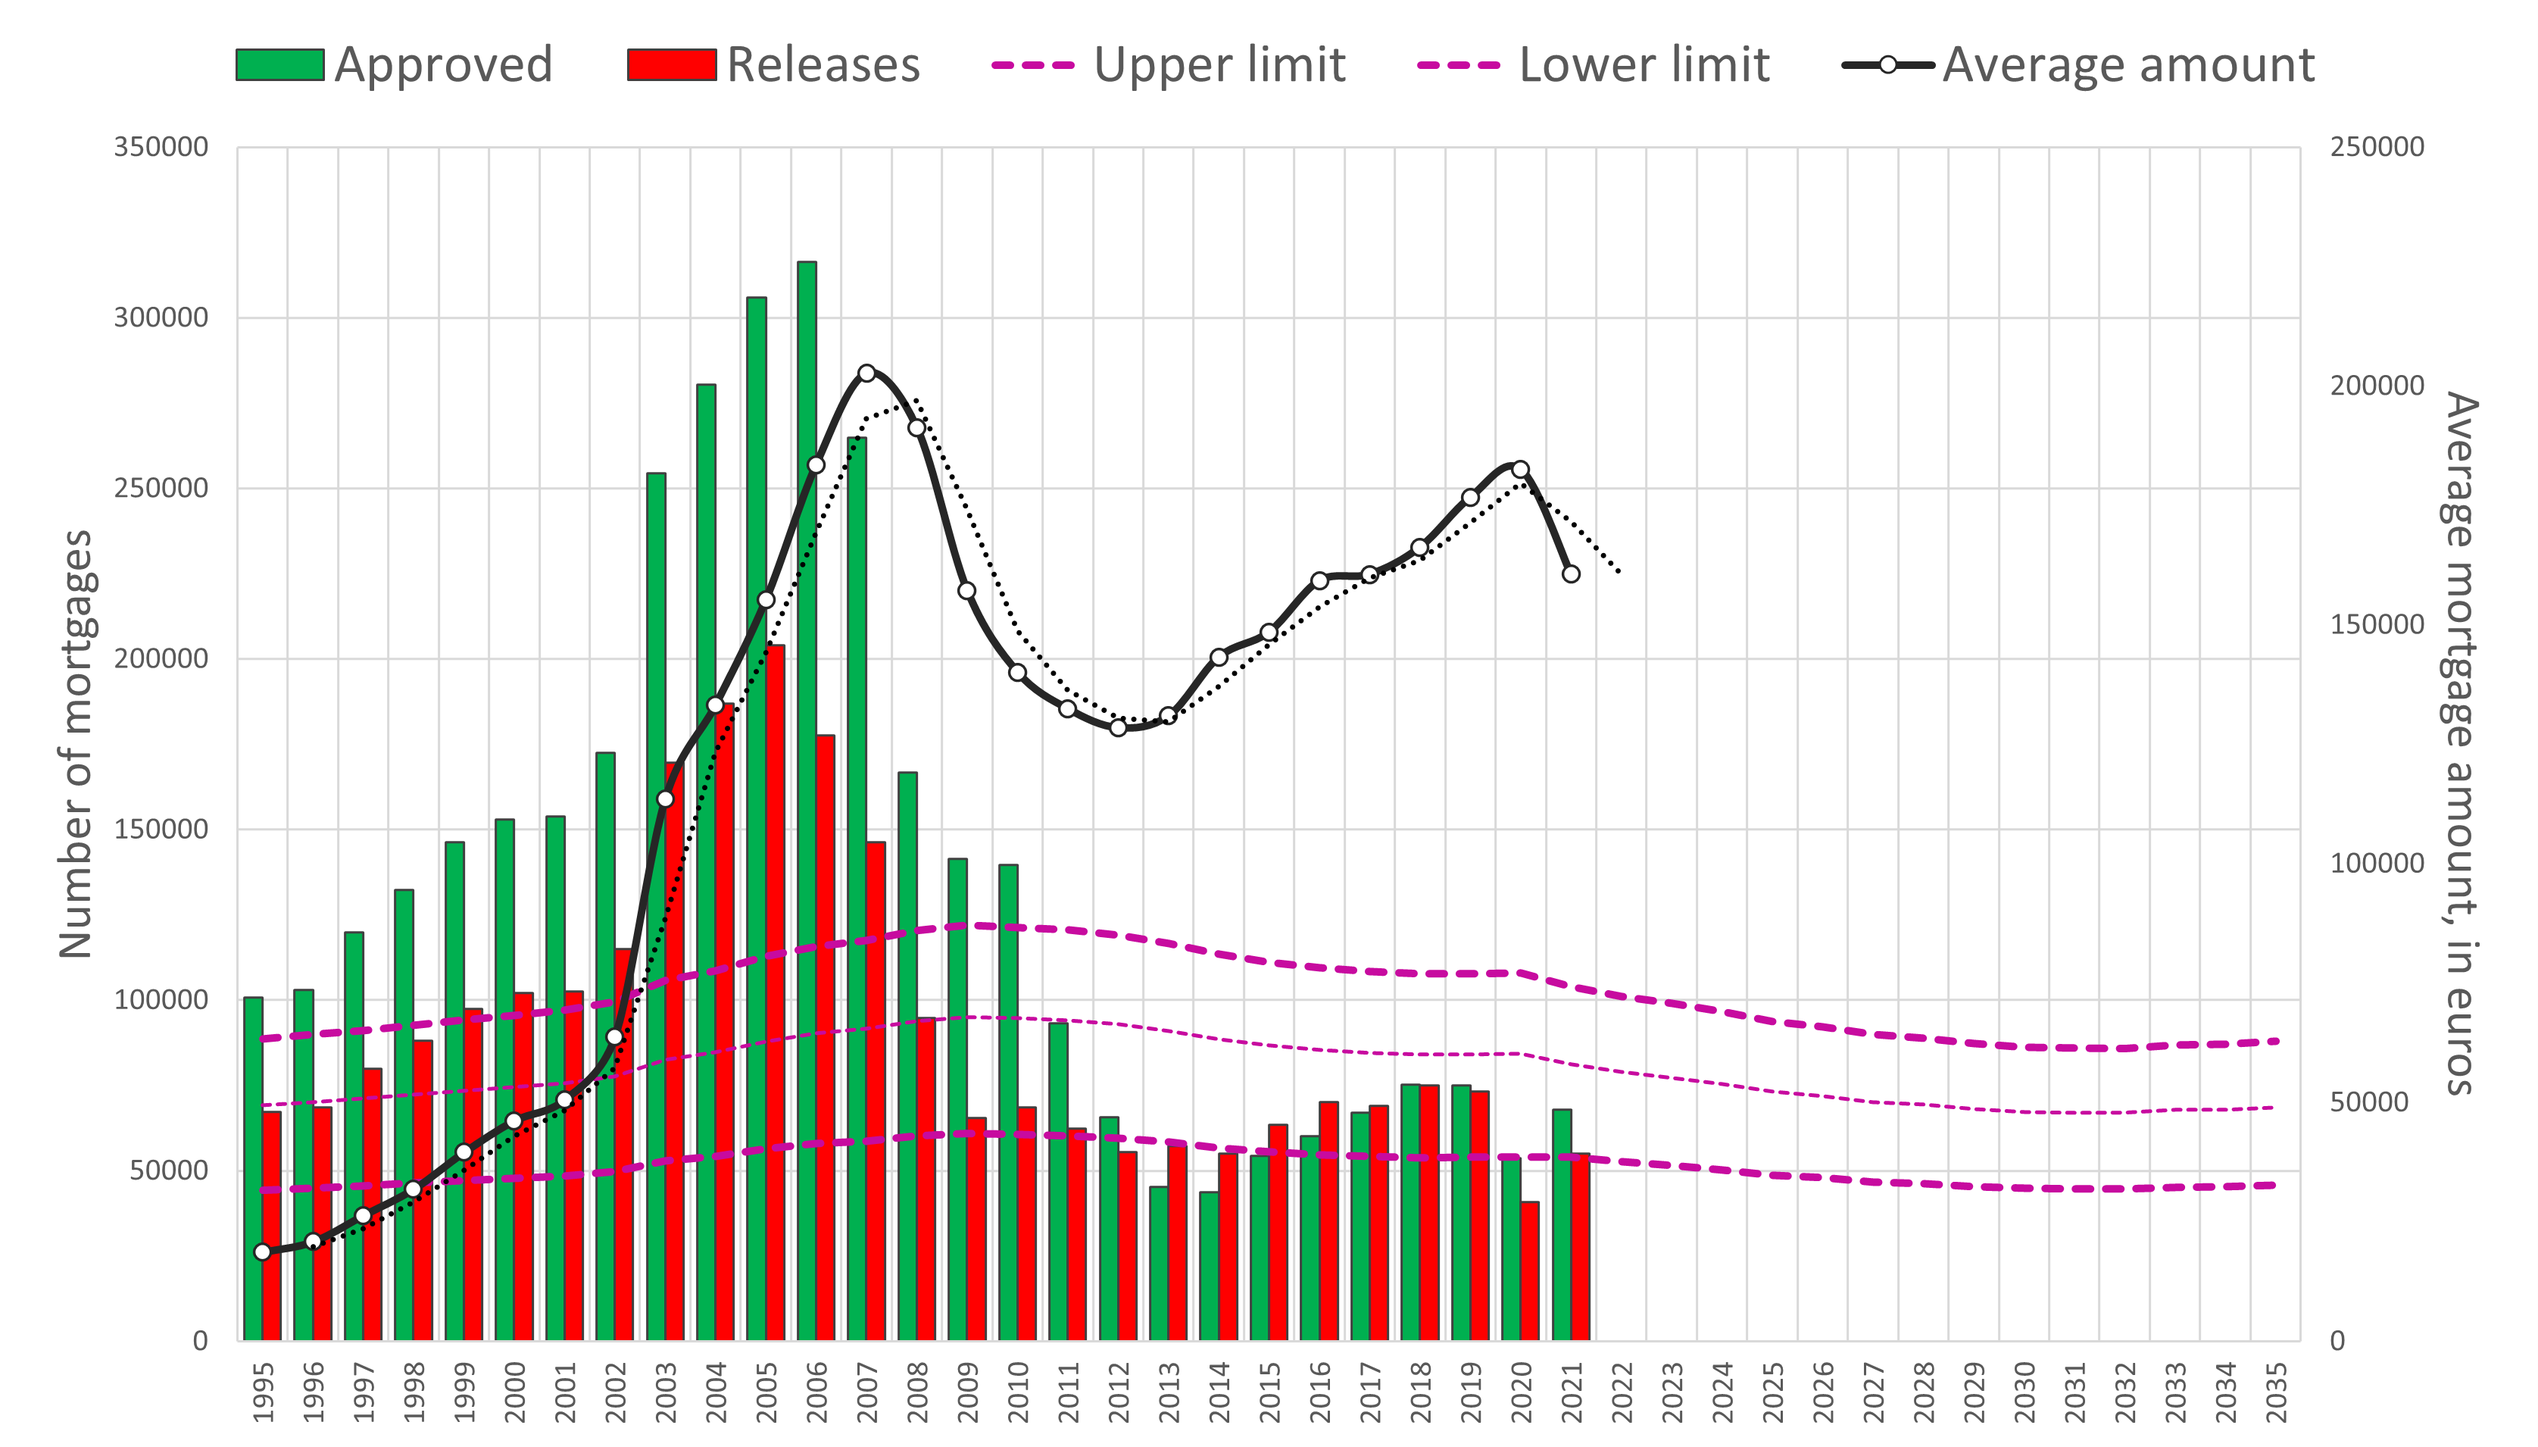
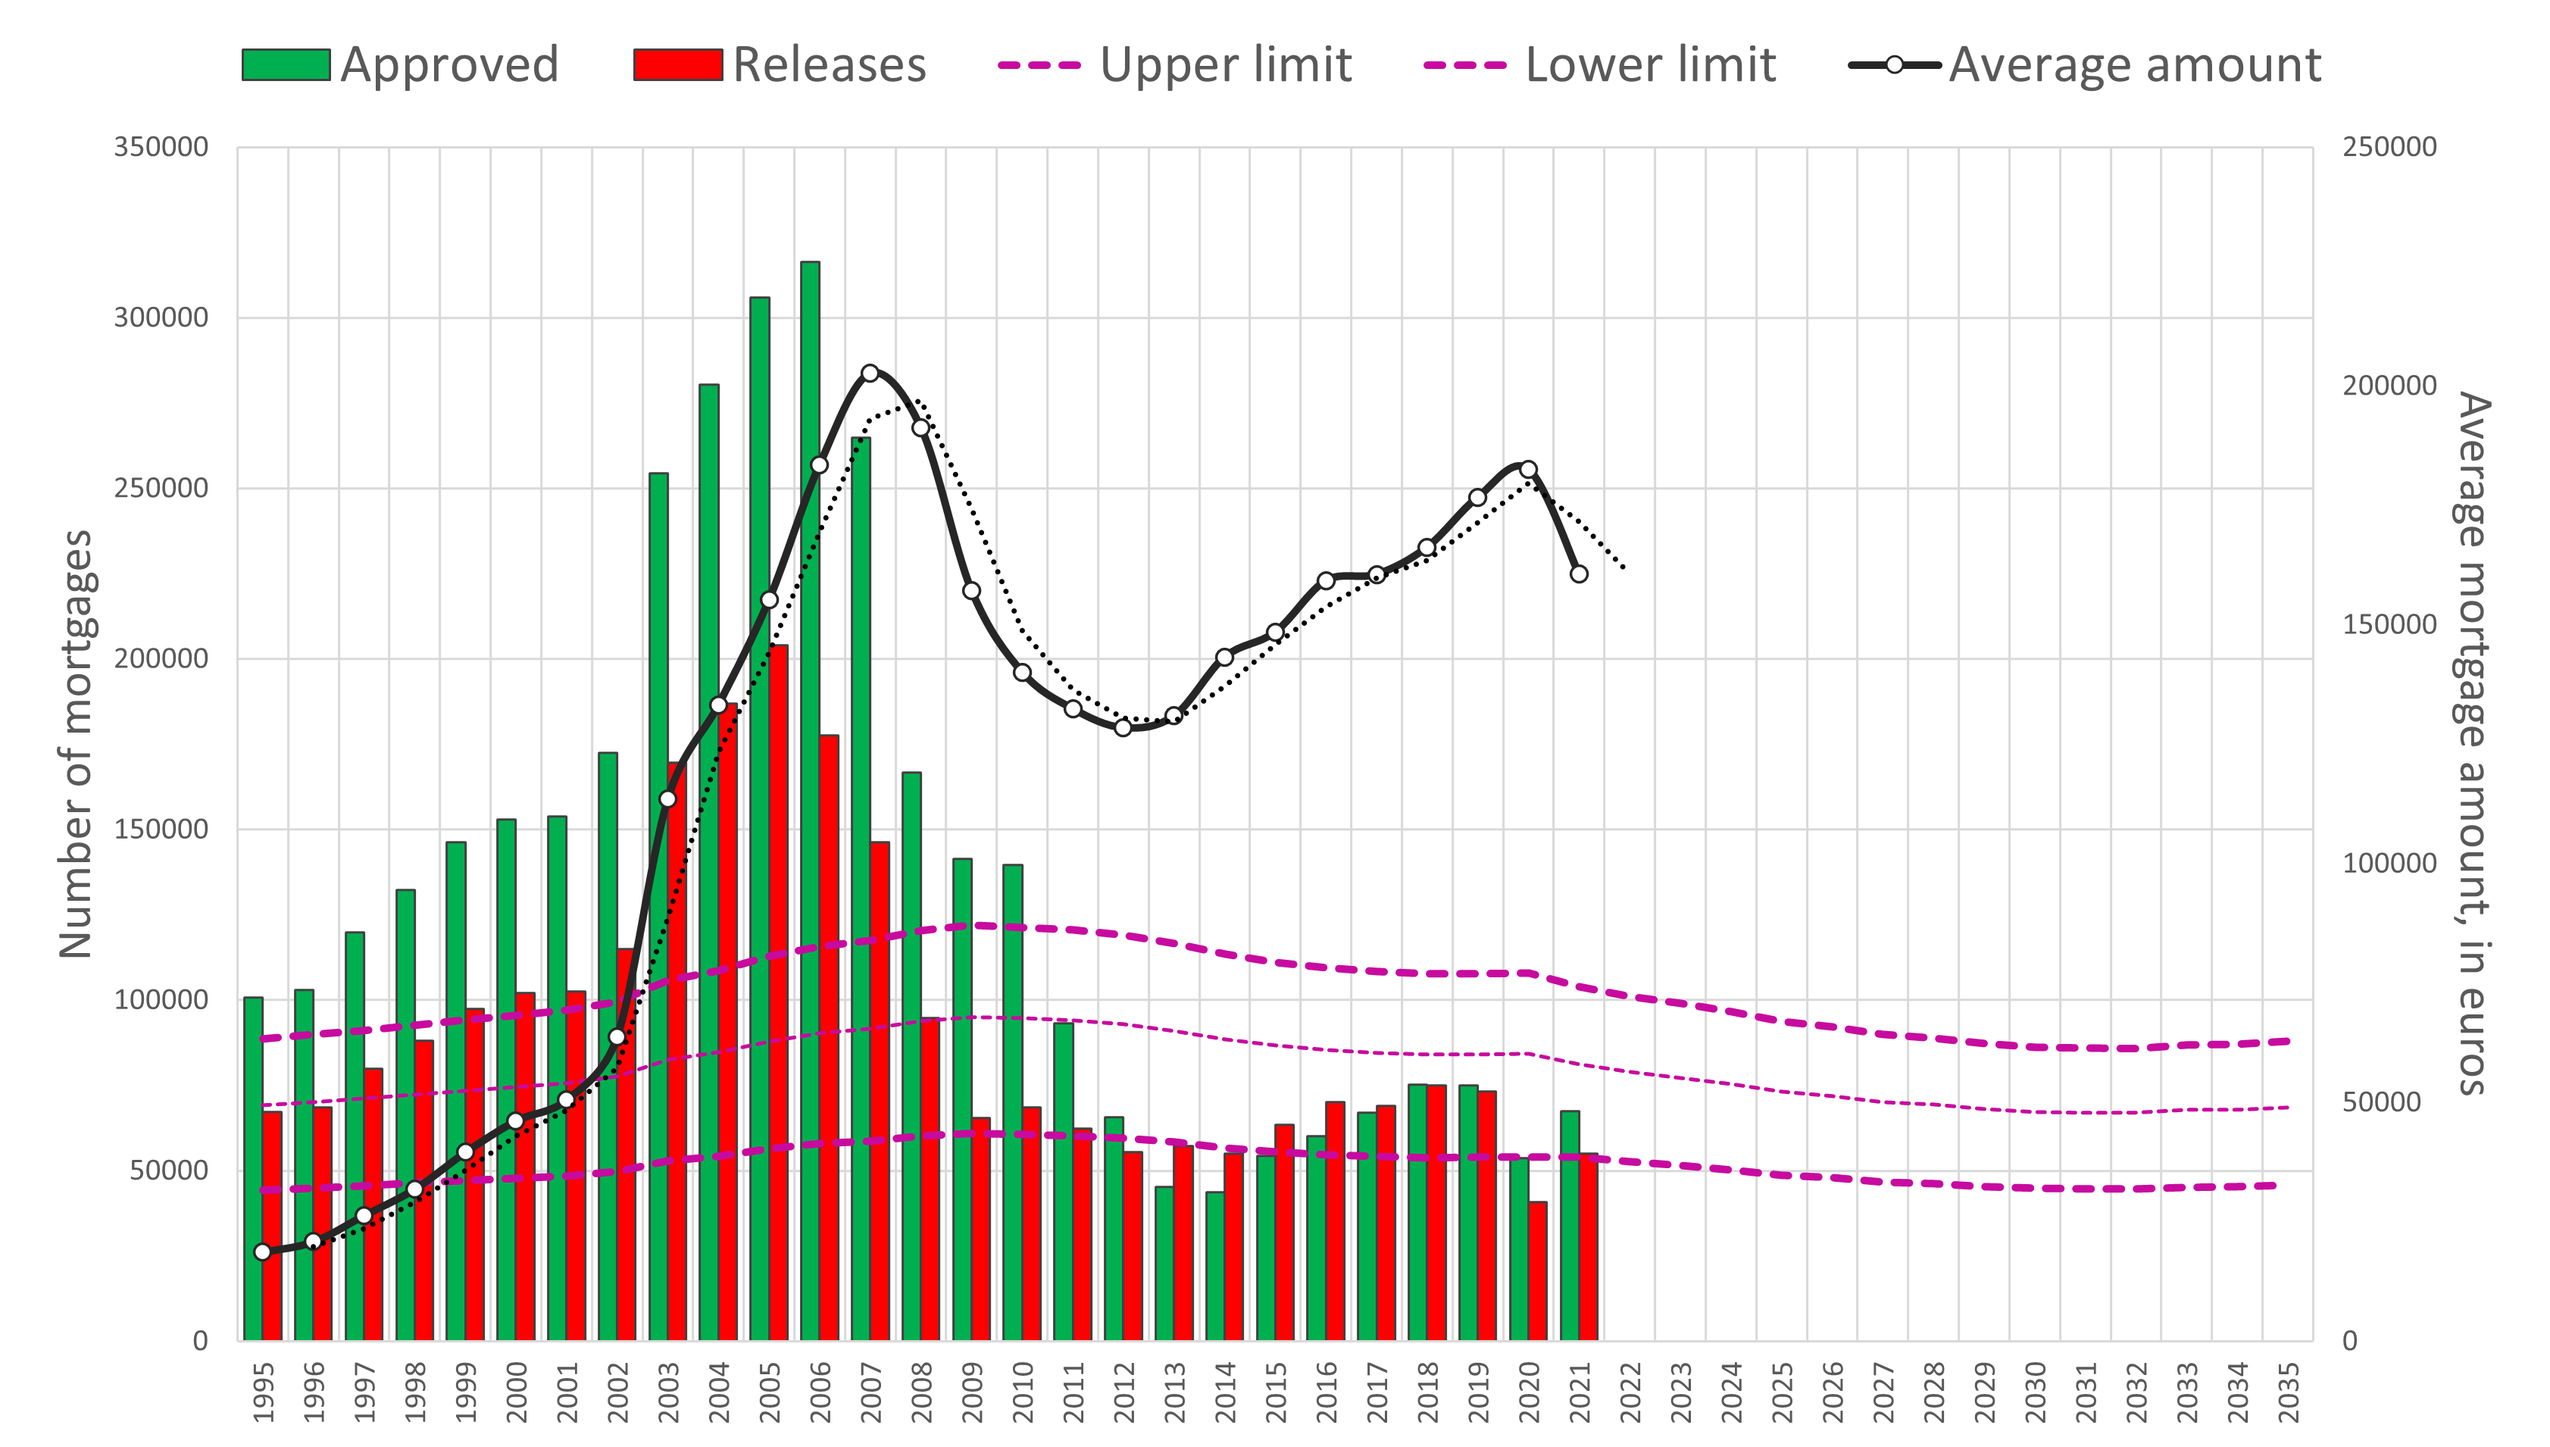
52

diff --git a/pages/posts/credit.md b/pages/posts/credit.md
@@ -1,6 +1,6 @@
 ---
 title: Evolution of mortgages
-date: 2021-07-01
+date: 2021-08-01
 description: Data on the evolution of the number of mortgages and their average amount. Credit correlates very well with the evolution of house prices.
 tag: Credit
 author: Galetaire
@@ -13,8 +13,8 @@ import Image from 'next/image'
 <Image
   src="/images/credit.png"
   alt="Reload chart"
-  width={3351}
-  height={1910}
+  width={3366}
+  height={1911}
   priority
   className="next-image"
 />
